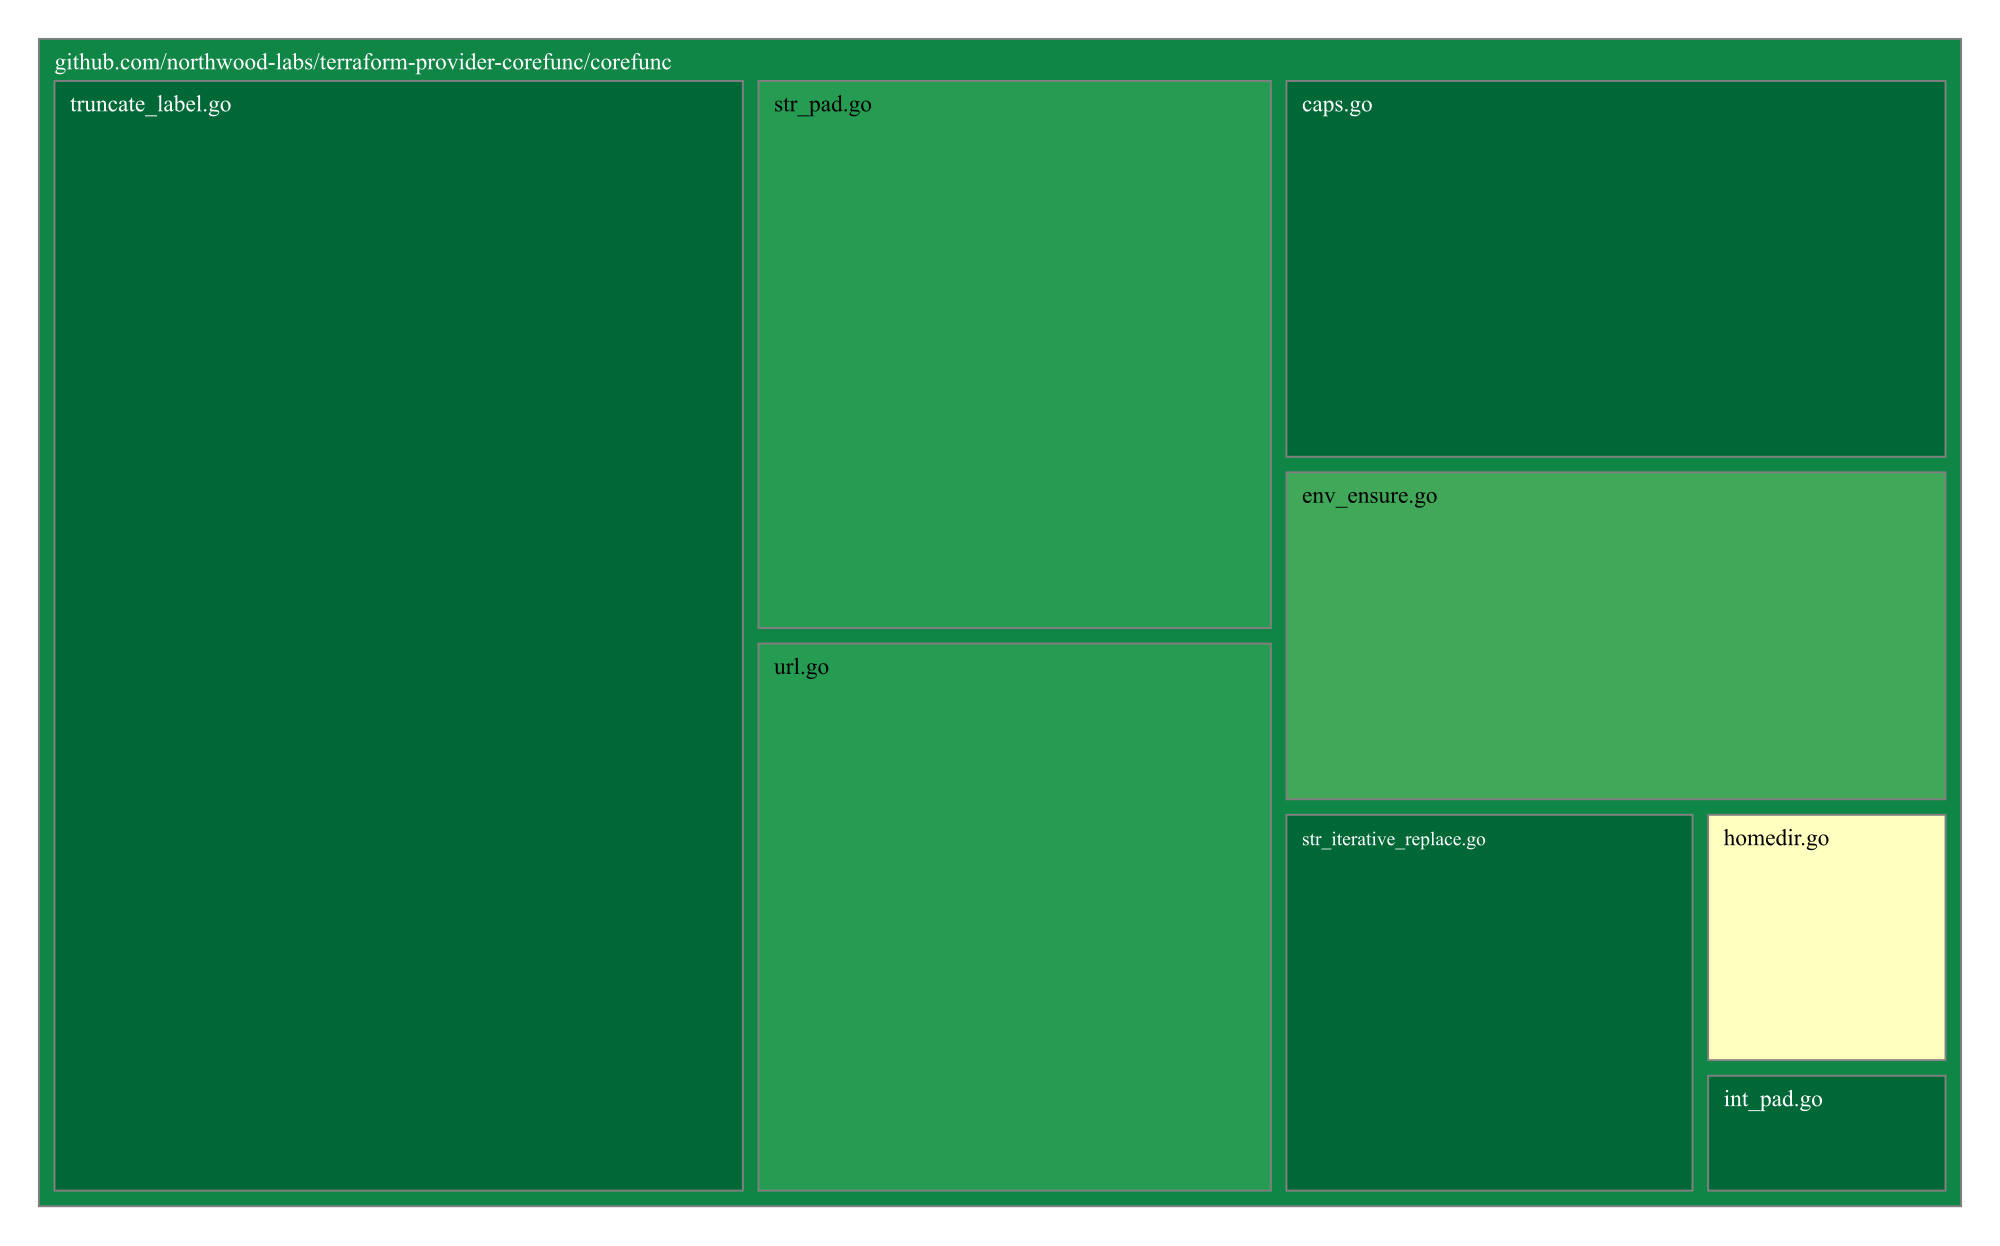
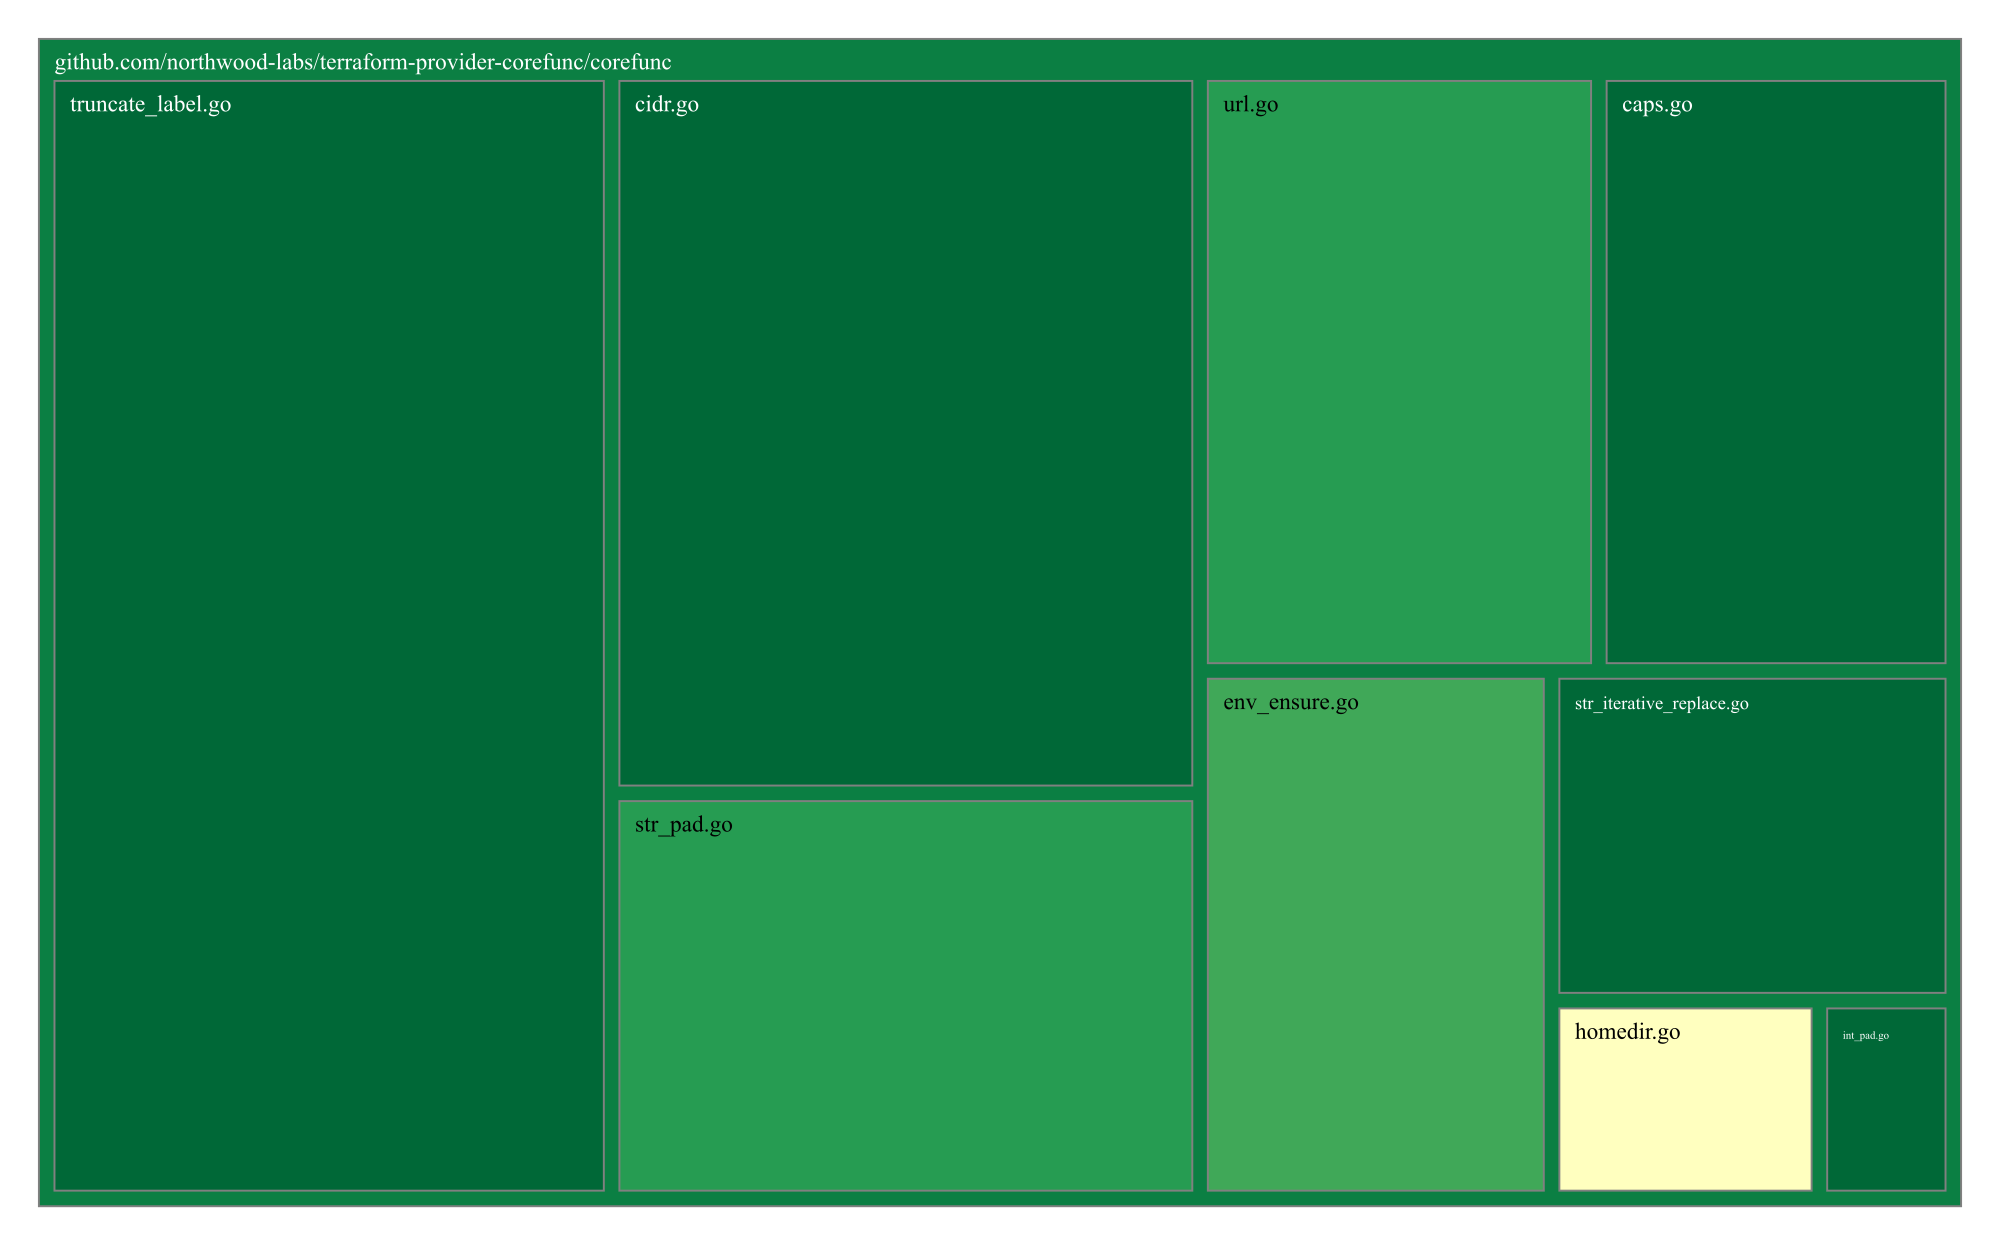
feat: Implemented CIDRContains() function.

diff --git a/testfixtures/cidr.go b/testfixtures/cidr.go
@@ -1,0 +1,115 @@
+// Copyright 2023-2024, Northwood Labs
+// Copyright 2023-2024, Ryan Parman <rparman@northwood-labs.com>
+//
+// Licensed under the Apache License, Version 2.0 (the "License";
+// you may not use this file except in compliance with the License.
+// You may obtain a copy of the License at
+//
+//     http://www.apache.org/licenses/LICENSE-2.0
+//
+// Unless required by applicable law or agreed to in writing, software
+// distributed under the License is distributed on an "AS IS" BASIS,
+// WITHOUT WARRANTIES OR CONDITIONS OF ANY KIND, either express or implied.
+// See the License for the specific language governing permissions and
+// limitations under the License.
+
+package testfixtures // lint:no_dupe
+
+// CIDRContainsTestTable is used by both the standard Go tests and also the
+// Terraform acceptance tests.
+// <https://github.com/golang/go/wiki/TableDrivenTests>
+var CIDRContainsTestTable = map[string]struct { // lint:no_dupe
+	ContainerCidr     string
+	ContainedIPOrCidr string
+	Expected          bool
+	ExpectedErr       bool
+}{
+	"192.168.2.0/20 contains 192.168.2.1": {
+		// IPv4, contained (IP).
+		ContainerCidr:     "192.168.2.0/20",
+		ContainedIPOrCidr: "192.168.2.1",
+		Expected:          true,
+		ExpectedErr:       false,
+	},
+	"192.168.2.0/20 contains 192.168.2.0/22": {
+		// IPv4, contained (CIDR).
+		ContainerCidr:     "192.168.2.0/20",
+		ContainedIPOrCidr: "192.168.2.0/22",
+		Expected:          true,
+		ExpectedErr:       false,
+	},
+	"192.168.2.0/20 contains 192.126.2.1": {
+		// IPv4, not contained.
+		ContainerCidr:     "192.168.2.0/20",
+		ContainedIPOrCidr: "192.126.2.1",
+		Expected:          false,
+		ExpectedErr:       false,
+	},
+	"192.168.2.0/20 contains 192.126.2.0/18": {
+		// IPv4, not contained (CIDR).
+		ContainerCidr:     "192.168.2.0/20",
+		ContainedIPOrCidr: "192.126.2.0/18",
+		Expected:          false,
+		ExpectedErr:       false,
+	},
+	"fe80::/48 contains fe80::1": {
+		// IPv6, contained.
+		ContainerCidr:     "fe80::/48",
+		ContainedIPOrCidr: "fe80::1",
+		Expected:          true,
+		ExpectedErr:       false,
+	},
+	"fe80::/48 contains fe81::1": {
+		// IPv6, not contained.
+		ContainerCidr:     "fe80::/48",
+		ContainedIPOrCidr: "fe81::1",
+		Expected:          false,
+		ExpectedErr:       false,
+	},
+	"192.168.2.0/20 contains fe80::1": {
+		// Address family mismatch: IPv4 containing_prefix, IPv6
+		// contained_ip_or_prefix (IP).
+		ContainerCidr:     "192.168.2.0/20",
+		ContainedIPOrCidr: "fe80::1",
+		Expected:          false,
+		ExpectedErr:       true,
+	},
+	"192.168.2.0/20 contains fe80::/24": {
+		// Address family mismatch: IPv4 containing_prefix, IPv6
+		// contained_ip_or_prefix (prefix).
+		ContainerCidr:     "192.168.2.0/20",
+		ContainedIPOrCidr: "fe80::/24",
+		Expected:          false,
+		ExpectedErr:       true,
+	},
+	"fe80::/48 contains 192.168.2.1": {
+		// Address family mismatch: IPv6 containing_prefix, IPv4
+		// contained_ip_or_prefix (IP).
+		ContainerCidr:     "fe80::/48",
+		ContainedIPOrCidr: "192.168.2.1",
+		Expected:          false,
+		ExpectedErr:       true,
+	},
+	"fe80::/48 contains 192.168.2.0/20": {
+		// Address family mismatch: IPv6 containing_prefix, IPv4
+		// contained_ip_or_prefix (prefix).
+		ContainerCidr:     "fe80::/48",
+		ContainedIPOrCidr: "192.168.2.0/20",
+		Expected:          false,
+		ExpectedErr:       true,
+	},
+	"not-a-cidr contains 192.168.2.1": {
+		// Input error: invalid CIDR address.
+		ContainerCidr:     "not-a-cidr",
+		ContainedIPOrCidr: "192.168.2.1",
+		Expected:          false,
+		ExpectedErr:       true,
+	},
+	"192.168.2.0/20 contains not-an-address": {
+		// Input error: invalid IP address.
+		ContainerCidr:     "192.168.2.0/20",
+		ContainedIPOrCidr: "not-an-address",
+		Expected:          false,
+		ExpectedErr:       true,
+	},
+}

diff --git a/corefunc/cidr.go b/corefunc/cidr.go
@@ -1,0 +1,99 @@
+// Copyright 2023-2024, Northwood Labs
+// Copyright 2023-2024, Ryan Parman <rparman@northwood-labs.com>
+//
+// Licensed under the Apache License, Version 2.0 (the "License");
+// you may not use this file except in compliance with the License.
+// You may obtain a copy of the License at
+//
+//     http://www.apache.org/licenses/LICENSE-2.0
+//
+// Unless required by applicable law or agreed to in writing, software
+// distributed under the License is distributed on an "AS IS" BASIS,
+// WITHOUT WARRANTIES OR CONDITIONS OF ANY KIND, either express or implied.
+// See the License for the specific language governing permissions and
+// limitations under the License.
+
+package corefunc
+
+import (
+	"fmt"
+	"net"
+
+	"github.com/apparentlymart/go-cidr/cidr"
+)
+
+/*
+CIDRContains checks to see if an IP address or CIDR block is contained within
+another CIDR block.
+
+Ported from OpenTofu. This function licensed as MPL-2.0.
+
+----
+
+  - containingCidr (string): A CIDR range to check as a containing range.
+
+  - containedIpOrCidr (string): An IP address or CIDR range to check as a
+    contained range.
+*/
+func CIDRContains(containingCidr, containedIPOrCidr string) (bool, error) {
+	// The first argument must be a CIDR prefix.
+	_, containing, err := net.ParseCIDR(containingCidr)
+	if err != nil {
+		return false, fmt.Errorf(
+			"invalid containing CIDR `%s`: %w",
+			containingCidr,
+			err,
+		)
+	}
+
+	// The second argument can be either an IP address or a CIDR prefix. We will
+	// try parsing it as an IP address first.
+	startIP := net.ParseIP(containedIPOrCidr)
+
+	var endIP net.IP
+
+	// If the second argument did not parse as an IP, we will try parsing it as
+	// a CIDR prefix.
+	if startIP == nil {
+		_, contained, err := net.ParseCIDR(containedIPOrCidr)
+		// If that also fails, we'll return an error.
+		if err != nil {
+			return false, fmt.Errorf(
+				"invalid IP address or containing CIDR: %s",
+				containedIPOrCidr,
+			)
+		}
+
+		// Otherwise, we will want to know the start and the end IP of the
+		// prefix, so that we can check whether both are contained in the
+		// containing prefix.
+		startIP, endIP = cidr.AddressRange(contained)
+	}
+
+	// We require that both addresses are of the same type, so that we can't
+	// accidentally compare an IPv4 address to an IPv6 prefix. The underlying Go
+	// function will always return false if this happens, but we want to return
+	// an error instead so that the caller can distinguish between a
+	// "legitimate" false result and an erroneous check.
+	if (startIP.To4() == nil) != (containing.IP.To4() == nil) {
+		return false, fmt.Errorf(
+			"address family mismatch: %s vs. %s",
+			containingCidr,
+			containedIPOrCidr,
+		)
+	}
+
+	// If the second argument was an IP address, we will check whether it is
+	// contained in the containing prefix, and that's our result.
+	result := containing.Contains(startIP)
+
+	// If the second argument was a CIDR prefix, we will also check whether the
+	// end IP of the prefix is contained in the containing prefix. Once CIDR is
+	// contained in another CIDR if both the start and the end IP of the
+	// contained CIDR are contained in the containing CIDR.
+	if endIP != nil {
+		result = result && containing.Contains(endIP)
+	}
+
+	return result, nil
+}

diff --git a/corefunc/cidr_test.go b/corefunc/cidr_test.go
@@ -1,0 +1,52 @@
+// Copyright 2023-2024, Northwood Labs
+// Copyright 2023-2024, Ryan Parman <rparman@northwood-labs.com>
+//
+// Licensed under the Apache License, Version 2.0 (the "License");
+// you may not use this file except in compliance with the License.
+// You may obtain a copy of the License at
+//
+//     http://www.apache.org/licenses/LICENSE-2.0
+//
+// Unless required by applicable law or agreed to in writing, software
+// distributed under the License is distributed on an "AS IS" BASIS,
+// WITHOUT WARRANTIES OR CONDITIONS OF ANY KIND, either express or implied.
+// See the License for the specific language governing permissions and
+// limitations under the License.
+
+package corefunc
+
+import (
+	"fmt"
+	"testing"
+
+	"github.com/northwood-labs/terraform-provider-corefunc/testfixtures"
+)
+
+func ExampleCIDRContains() {
+	output, err := CIDRContains("192.168.2.0/20", "192.168.2.1")
+	if err != nil {
+		panic(err)
+	}
+
+	fmt.Println(output)
+
+	// Output:
+	// true
+}
+
+func TestCIDRContains(t *testing.T) { // lint:allow_complexity
+	for name, tc := range testfixtures.CIDRContainsTestTable {
+		t.Run(name, func(t *testing.T) {
+			output, err := CIDRContains(tc.ContainerCidr, tc.ContainedIPOrCidr)
+
+			// We expect an error.
+			if err != nil && !tc.ExpectedErr {
+				t.Errorf("Unexpected error: %v", err)
+			}
+
+			if output != tc.Expected {
+				t.Errorf("Expected %v, got %v", tc.Expected, output)
+			}
+		})
+	}
+}
